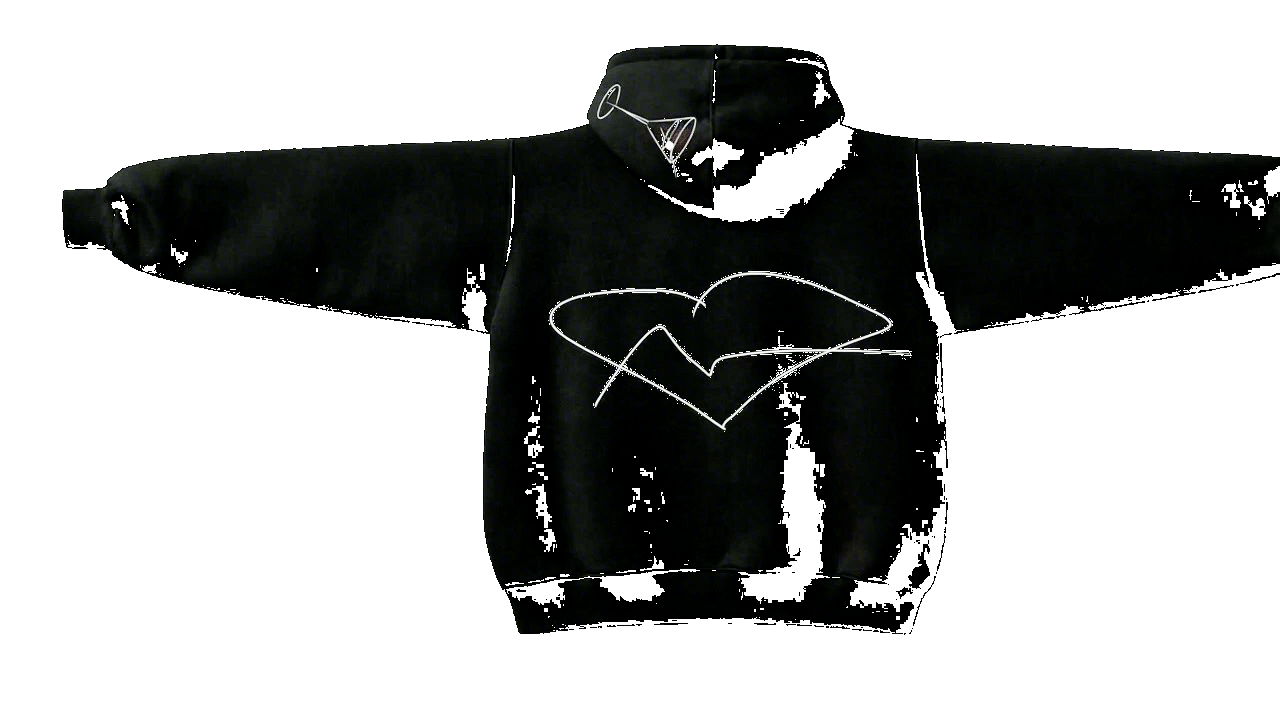
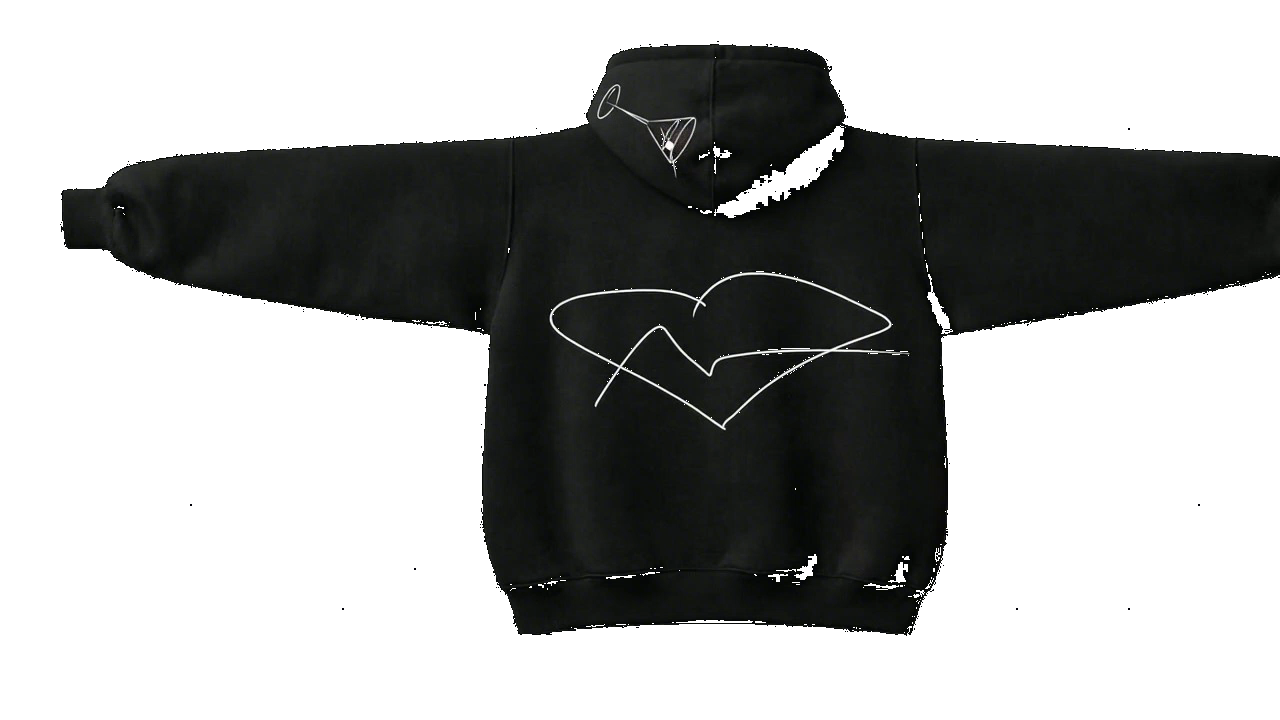
Fix garment opacity — show original colors fully opaque
Simplified chroma-key: only discard pure black (maxC < 0.02),
everything else rendered at full opacity with original colors.
No more edge darkening that was making fabric transparent.

diff --git a/src/components/VideoGarment.jsx b/src/components/VideoGarment.jsx
@@ -16,12 +16,10 @@ const fragShader = `
   void main() {
     vec4 color = texture2D(videoTexture, vUv);
     float maxC = max(color.r, max(color.g, color.b));
-    // Pure black background → fully transparent
-    if (maxC < 0.05) discard;
-    // Near-black edge pixels → force to solid black (kills white fringe)
-    float t = smoothstep(0.05, 0.18, maxC);
-    vec3 rgb = mix(vec3(0.0), color.rgb, t);
-    gl_FragColor = vec4(rgb, 1.0);
+    // Only discard pure black pixels (background)
+    if (maxC < 0.02) discard;
+    // Everything else: show original colors, fully opaque
+    gl_FragColor = vec4(color.rgb, 1.0);
   }
 `
 
